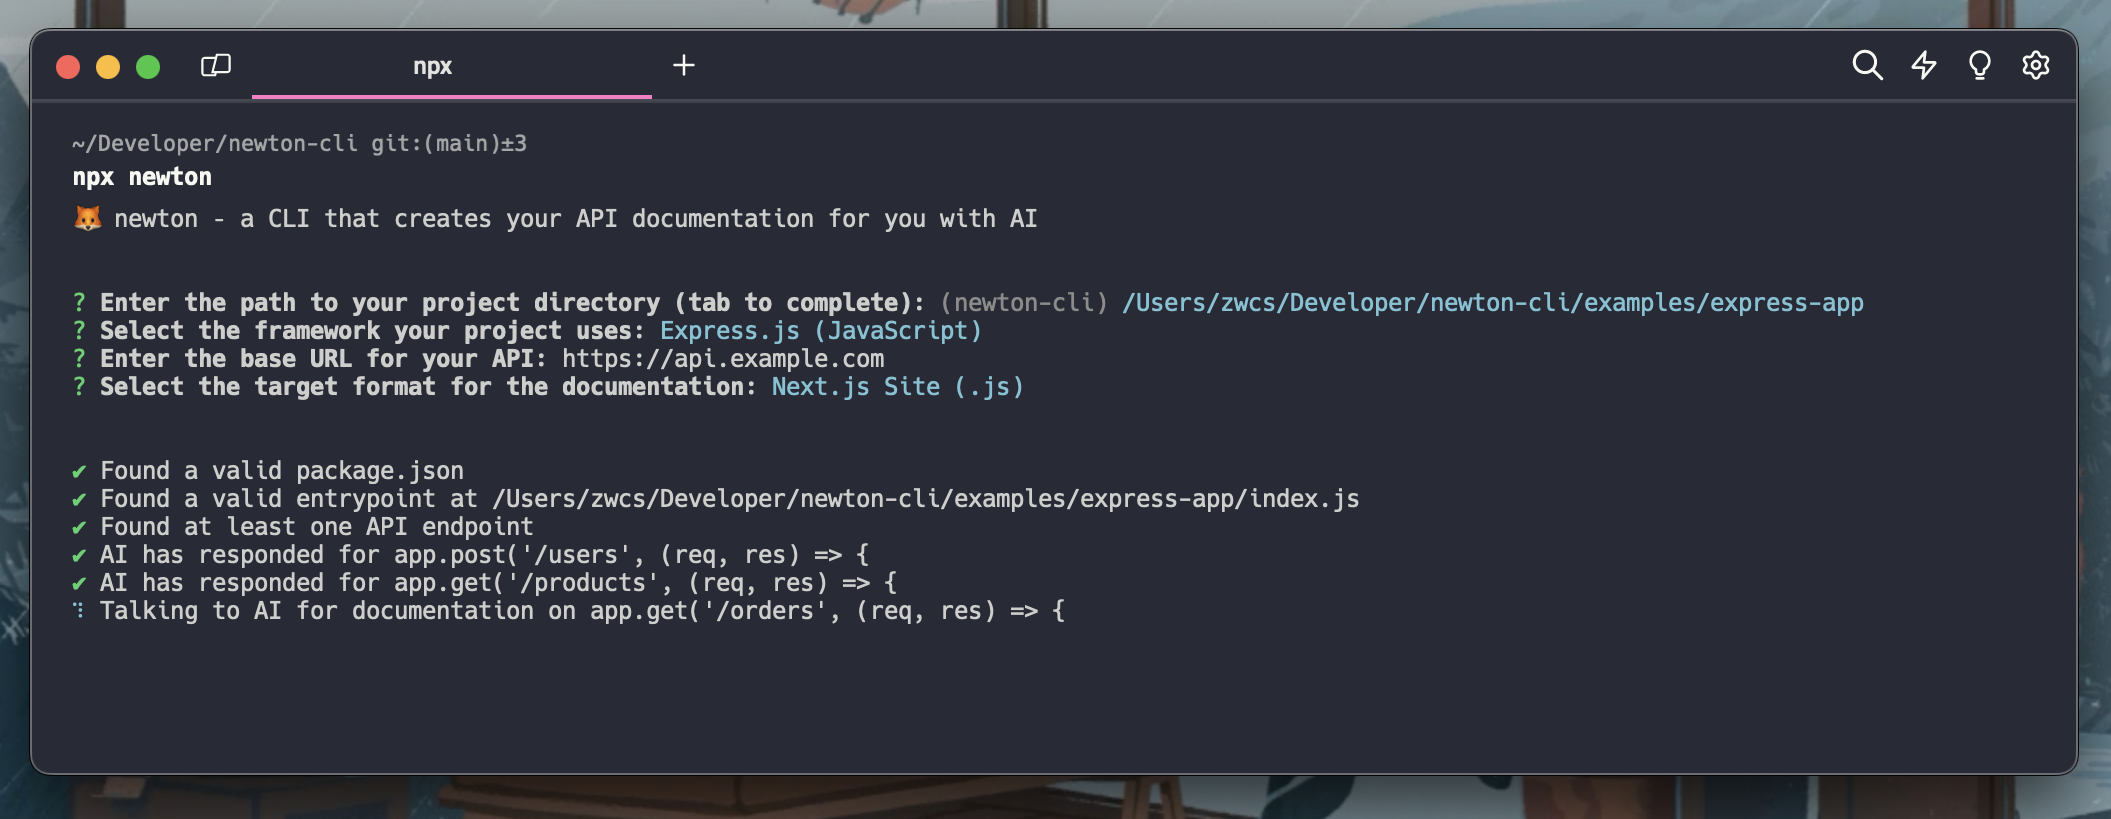
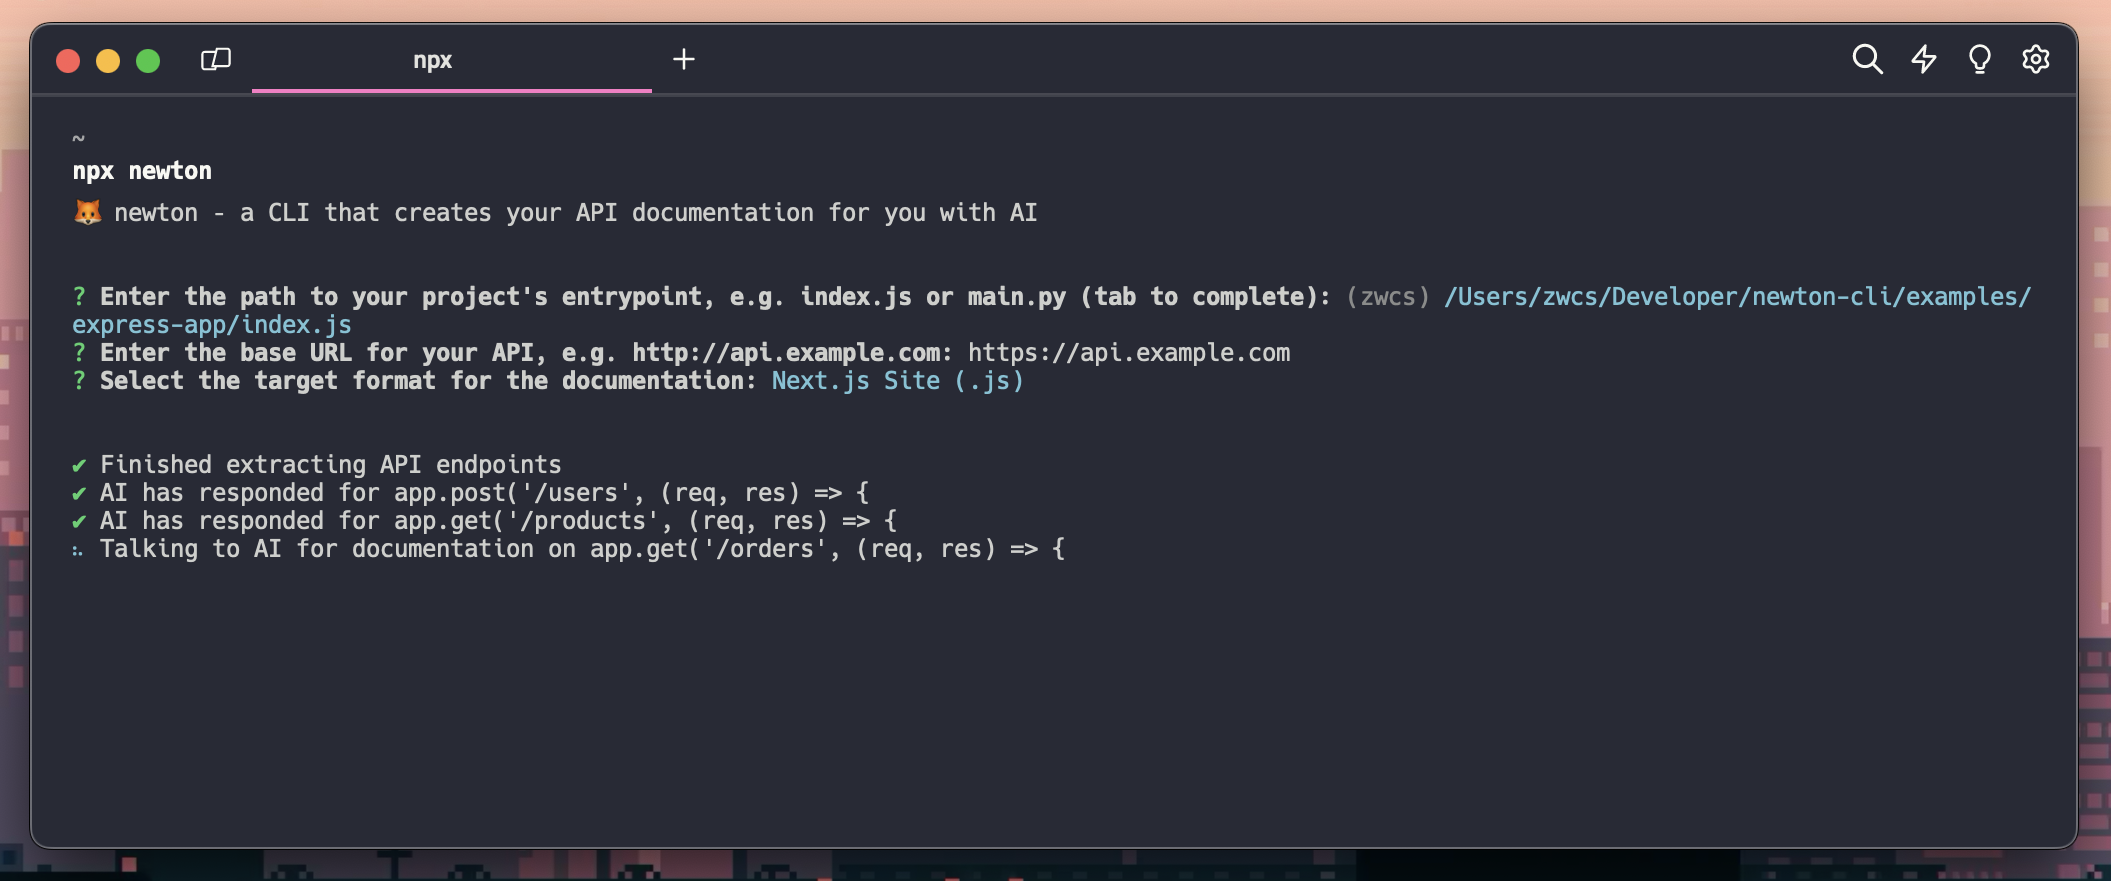
docs: update screenshots and remove unused

Changed region(s): [[0.0, 0.0, 1.0, 1.0]]

diff --git a/README.md b/README.md
@@ -1,6 +1,6 @@
 <div align="center">
     <div>
-        <img src="https://raw.githubusercontent.com/mapldx/newton/main/examples/cover-example.png?token=GHSAT0AAAAAACMLWUJZGJYYDG55XVXQKAK6ZQPZEBQ"/>
+        <img src="https://raw.githubusercontent.com/mapldx/newton/main/examples/cover-example.png"/>
         <h1 align="center">🦊 newton</h1>
     </div>
 	<p>A CLI that creates your API documentation for you with AI</p>
@@ -47,7 +47,7 @@ _[showing completed results]_
 </details>
 <details>
     <summary><code>npx newton</code> exported to simple HTML page <a href="https://github.com/mapldx/newton/blob/main/examples/express-app/api-documentation.html">(source)</a>:</summary>
-    <img src="https://github.com/mapldx/newton/blob/main/examples/express-app/express-simple-html.png?raw=true">
+    <img src="https://github.com/mapldx/newton/blob/main/examples/express-simple-html.png?raw=true">
 </details>
 <details>
     <summary><code>npx newton</code> exported to JSON <a href="https://github.com/mapldx/newton/blob/main/examples/express-app/api-documentation.json">here</a></summary>
@@ -60,15 +60,15 @@ _[showing completed results]_
 _[showing steps in process]_
 <details>
     <summary>Talking to AI to generate documentation for a route:</summary>
-    <img src="https://github.com/mapldx/newton/blob/main/examples/flask-app/flask-at-talking-to-ai.png?raw=true">
+    <img src="https://github.com/mapldx/newton/blob/main/examples/flask-at-talking-to-ai.png?raw=true">
 </details>
 <details open>
     <summary>Generating a Next.js site from an existing newton-generated JSON:</summary>
-    <img src="https://github.com/mapldx/newton/blob/main/examples/flask-app/flask-at-transmogrifying-existing.png?raw=true">
+    <img src="https://github.com/mapldx/newton/blob/main/examples/flask-at-transmogrifying-existing.png?raw=true">
 </details>
 <details>
     <summary>Generating of Next.js site export complete:</summary>
-    <img src="https://github.com/mapldx/newton/blob/main/examples/flask-app/flask-at-complete-next.png?raw=true">
+    <img src="https://github.com/mapldx/newton/blob/main/examples/flask-at-complete-next.png?raw=true">
 </details>
 
 ## While in beta...
